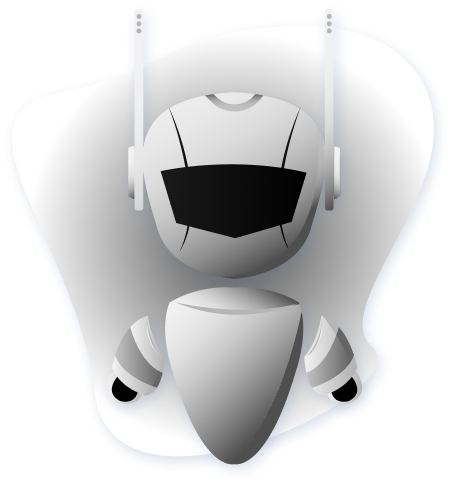
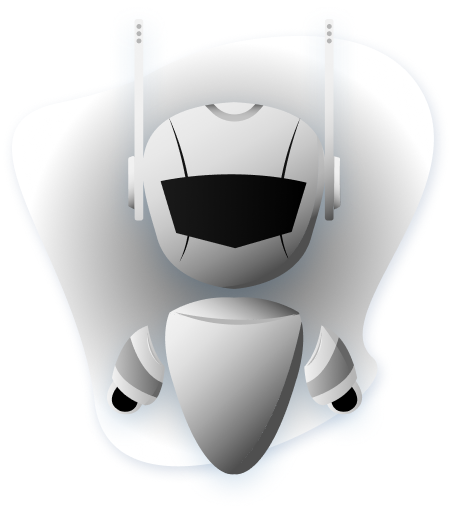
changes some assets and css

diff --git a/styles/main.css b/styles/main.css
@@ -12,6 +12,12 @@ body {
   /* background: linear-gradient(180deg, #FFFFFF 0%, #9B85AD 100%) */
 }
 
+h1, h2, button {
+  font-family: "Montserrat", sans-serif;
+  letter-spacing: .1rem;
+  text-transform: uppercase;
+}
+
 lottie-player {
   width: 200px;
   height: 200px;
@@ -96,17 +102,10 @@ lottie-player {
   height: 10rem;
 }
 
-/* #playerBolt,
-#playerClank,
-#playerGadget {
-  height: 7rem;
-  width: 7rem;
-  /* background-color: blue; */
-/* object-fit: cover;
-} */
+/* player styles */
 #playerBolt,
 #Bolt {
-  height: 7rem;
+  height: 7.5rem;
   width: 7rem;
   background-image: url("../assets/imgs/playerBolt-grey.png");
   background-size: cover;

diff --git a/index.html b/index.html
@@ -49,7 +49,7 @@
             id="gameMaster"
             autoplay
             loop
-            src="https://assets5.lottiefiles.com/private_files/lf30_31x4tkfb.json"
+            src="https://assets2.lottiefiles.com/private_files/lf30_bqqaxg5n.json"
             mode="normal"
           >
           </lottie-player>
